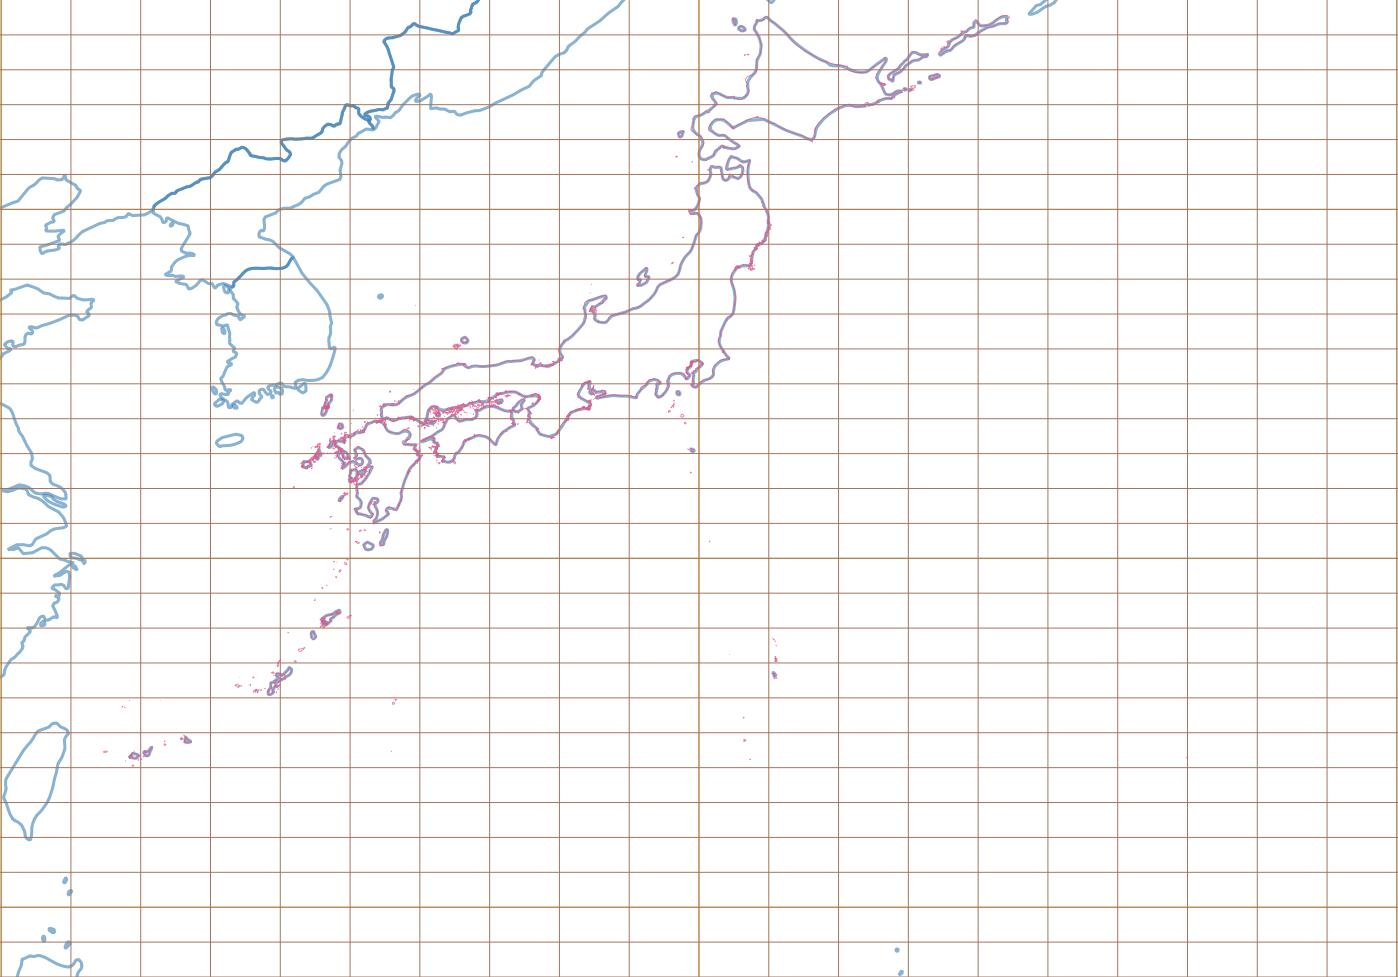
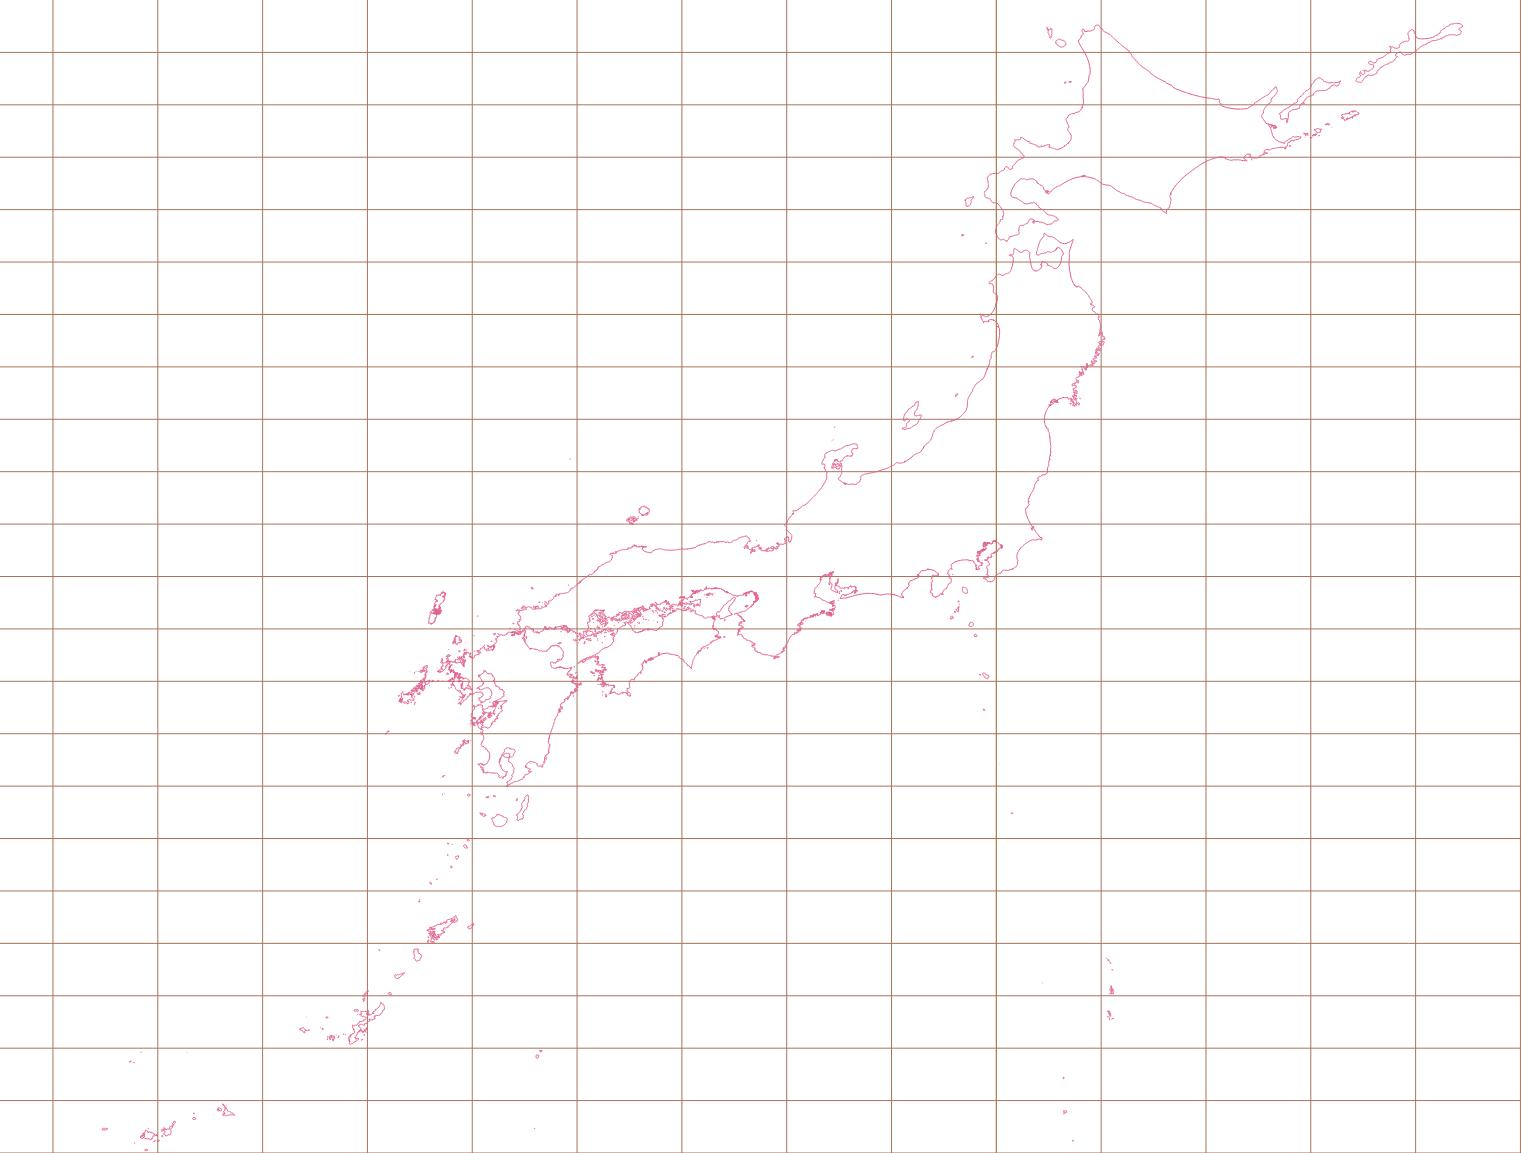
地図を平面化した

Changed region(s): [[0.0, 0.0, 1.0, 1.0]]

diff --git a/FT8MapViwer.Designer.cs b/FT8MapViwer.Designer.cs
@@ -51,7 +51,7 @@
             // btnStartEnd
             // 
             this.btnStartEnd.Anchor = ((System.Windows.Forms.AnchorStyles)((System.Windows.Forms.AnchorStyles.Bottom | System.Windows.Forms.AnchorStyles.Right)));
-            this.btnStartEnd.Location = new System.Drawing.Point(848, 515);
+            this.btnStartEnd.Location = new System.Drawing.Point(561, 524);
             this.btnStartEnd.Name = "btnStartEnd";
             this.btnStartEnd.Size = new System.Drawing.Size(75, 23);
             this.btnStartEnd.TabIndex = 0;
@@ -65,7 +65,7 @@
             this.filesToolStripMenuItem});
             this.menuStrip1.Location = new System.Drawing.Point(0, 0);
             this.menuStrip1.Name = "menuStrip1";
-            this.menuStrip1.Size = new System.Drawing.Size(992, 24);
+            this.menuStrip1.Size = new System.Drawing.Size(663, 24);
             this.menuStrip1.TabIndex = 1;
             this.menuStrip1.Text = "menuStrip1";
             // 
@@ -99,7 +99,7 @@
             this.stbStatus});
             this.statusStrip1.Location = new System.Drawing.Point(0, 658);
             this.statusStrip1.Name = "statusStrip1";
-            this.statusStrip1.Size = new System.Drawing.Size(992, 22);
+            this.statusStrip1.Size = new System.Drawing.Size(663, 22);
             this.statusStrip1.TabIndex = 3;
             this.statusStrip1.Text = "statusStrip1";
             // 
@@ -124,7 +124,7 @@
             this.tbMessage.Name = "tbMessage";
             this.tbMessage.ReadOnly = true;
             this.tbMessage.ScrollBars = System.Windows.Forms.ScrollBars.Vertical;
-            this.tbMessage.Size = new System.Drawing.Size(814, 140);
+            this.tbMessage.Size = new System.Drawing.Size(543, 140);
             this.tbMessage.TabIndex = 4;
             this.tbMessage.Text = "init now.\r\n";
             // 
@@ -132,7 +132,7 @@
             // 
             this.lblDataRecive.Anchor = ((System.Windows.Forms.AnchorStyles)((System.Windows.Forms.AnchorStyles.Bottom | System.Windows.Forms.AnchorStyles.Right)));
             this.lblDataRecive.AutoSize = true;
-            this.lblDataRecive.Location = new System.Drawing.Point(848, 541);
+            this.lblDataRecive.Location = new System.Drawing.Point(577, 550);
             this.lblDataRecive.Name = "lblDataRecive";
             this.lblDataRecive.Size = new System.Drawing.Size(50, 15);
             this.lblDataRecive.TabIndex = 5;
@@ -143,23 +143,20 @@
             this.pictureBox1.Anchor = ((System.Windows.Forms.AnchorStyles)((((System.Windows.Forms.AnchorStyles.Top | System.Windows.Forms.AnchorStyles.Bottom) 
             | System.Windows.Forms.AnchorStyles.Left) 
             | System.Windows.Forms.AnchorStyles.Right)));
-            this.pictureBox1.InitialImage = global::FT8MapViwer.Properties.Resources.japanMap;
-            this.pictureBox1.Location = new System.Drawing.Point(-1, 27);
+            this.pictureBox1.Image = global::FT8MapViwer.Properties.Resources.japanMap;
+            this.pictureBox1.Location = new System.Drawing.Point(12, 27);
             this.pictureBox1.Name = "pictureBox1";
-            this.pictureBox1.Size = new System.Drawing.Size(981, 482);
+            this.pictureBox1.Size = new System.Drawing.Size(652, 482);
             this.pictureBox1.SizeMode = System.Windows.Forms.PictureBoxSizeMode.Zoom;
             this.pictureBox1.TabIndex = 6;
             this.pictureBox1.TabStop = false;
-            this.pictureBox1.MouseDown += new System.Windows.Forms.MouseEventHandler(this.pictureBox1_MouseDown);
-            this.pictureBox1.MouseMove += new System.Windows.Forms.MouseEventHandler(this.pictureBox1_MouseMove);
-            this.pictureBox1.MouseUp += new System.Windows.Forms.MouseEventHandler(this.pictureBox1_MouseUp);
-            this.pictureBox1.MouseWheel += new System.Windows.Forms.MouseEventHandler(this.pictureBox1_MouseWheel);
+
             // 
             // labPos
             // 
             this.labPos.Anchor = ((System.Windows.Forms.AnchorStyles)((System.Windows.Forms.AnchorStyles.Bottom | System.Windows.Forms.AnchorStyles.Right)));
             this.labPos.AutoSize = true;
-            this.labPos.Location = new System.Drawing.Point(848, 572);
+            this.labPos.Location = new System.Drawing.Point(577, 577);
             this.labPos.Name = "labPos";
             this.labPos.Size = new System.Drawing.Size(50, 15);
             this.labPos.TabIndex = 7;
@@ -168,14 +165,14 @@
             // timer1
             // 
             this.timer1.Enabled = true;
-            this.timer1.Interval = 1;
+            this.timer1.Interval = 100;
             this.timer1.Tick += new System.EventHandler(this.timer1_Tick);
             // 
             // FT8MapViwer
             // 
             this.AutoScaleDimensions = new System.Drawing.SizeF(7F, 15F);
             this.AutoScaleMode = System.Windows.Forms.AutoScaleMode.Font;
-            this.ClientSize = new System.Drawing.Size(992, 680);
+            this.ClientSize = new System.Drawing.Size(663, 680);
             this.Controls.Add(this.labPos);
             this.Controls.Add(this.pictureBox1);
             this.Controls.Add(this.lblDataRecive);

diff --git a/ReceiveAnime.cs b/ReceiveAnime.cs
@@ -1,37 +1,30 @@
 
 public class ReceiveAnime
 {
-    private GridLocator myGR;
-    private GridLocator toGr;
+    private GridLocator myGL;
+    private GridLocator toGL;
     private const int MAX_COUNT = 50;
     private int counter = 0;
     private double location_Long = 0;
     private double location_Lat = 0;
     public ReceiveAnime(GridLocator my, GridLocator to)
     {
-        this.myGR = my;
-        this.toGr = to;
+        this.myGL = my;
+        this.toGL = to;
         counter = MAX_COUNT;
-
-    }
-    public double getLong()
-    {
-        return location_Long;
-
-    }
-    public double getLat()
-    {
-        return location_Lat;
-    }
-
-    public double[] getLongLat()
+   }
+    public double[] getToLongLat()
     {
         return (new double[] { location_Long, location_Lat });
     }
+    public double[] getStartLongLat()
+    {
+        return (new double[] { toGL.getLong(),toGL.getLat() });
+    }
     public int doExec()
     {
-        location_Long = (myGR.getLong() - toGr.getLong()) / (double)MAX_COUNT * (double)counter + toGr.getLong();
-        location_Lat = (myGR.getLat() - toGr.getLat()) / (double)MAX_COUNT * (double)counter + toGr.getLat();
+        location_Long = (myGL.getLong() - toGL.getLong()) / (double)MAX_COUNT * (double)(MAX_COUNT-counter) + toGL.getLong();
+        location_Lat = (myGL.getLat() - toGL.getLat()) / (double)MAX_COUNT * (double)(MAX_COUNT - counter) + toGL.getLat();
         counter--;
         return counter;
     }

diff --git a/ImgMgr.cs b/ImgMgr.cs
@@ -33,8 +33,8 @@
     {
         //var x = (int)Math.Round((longLat[0] + 180) / 360 * picSize.X);
         //var y = (int)Math.Round((-longLat[1] + 90) / 180 * picSize.Y);
-        var x = (int)Math.Round((longLat[0]  - 120 ) / (160-120) * picSize.X);
-        var y = (int)Math.Round((-longLat[1] +  46 ) / (46-18) * picSize.Y);
+        var x = (int)Math.Round((longLat[0]  - 121 ) / (150-121) * picSize.X);
+        var y = (int)Math.Round((-longLat[1] +  46 ) / (46-24) * picSize.Y);
         return new Point(x, y);
     }
 

diff --git a/DataReceiveLED.cs b/DataReceiveLED.cs
@@ -28,7 +28,7 @@
     public void doReceive()
     {
         notReceiveing();
-        counter = 2;
+        counter = 10;
     }
 
     public void doExec()
